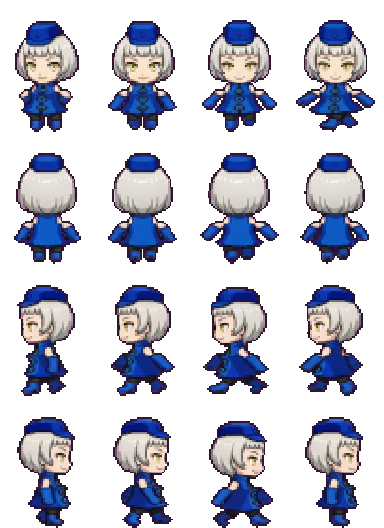
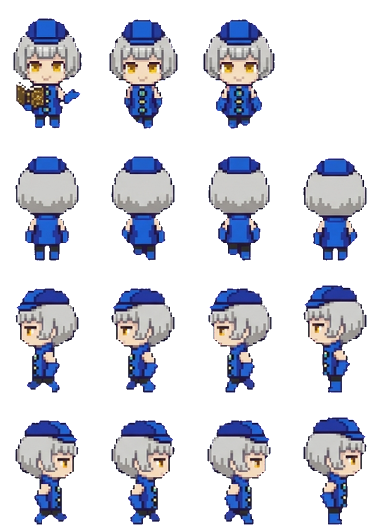
Redraw Elizabeth in the shared art style
Claude-Session: https://claude.ai/code/session_01KaPsBYLrtbRfMYNG2xeBCK

diff --git a/docs/app.js b/docs/app.js
@@ -75,7 +75,7 @@ function spr(cat, k, col, sc) {
   return `<div class="clip" style="width:${it[2] * sc}px;height:${it[3] * sc}px;POS"><img class="px" src="assets/decor/${cat}.png" alt="" style="width:${S.sw * sc}px;height:${S.sh * sc}px;margin-left:${-col * S.cw * sc}px;margin-top:${-i * S.ch * sc}px"></div>`;
 }
 const icon = (k, sz) => `<span class="itm" style="width:${sz}px;height:${sz}px"><img class="px" src="assets/ui/items.png" alt="" style="width:${IT.length * sz}px;height:${sz}px;margin-left:${-ITM[k].i * sz}px"></span>`;
-const face = (id, w) => { const s = w / 96; return `<img class="px" src="assets/ch/${id}.webp?v=67" alt="" style="position:absolute;width:${384 * s}px;height:${528 * s}px;left:${-(96 * s - w) / 2}px;top:0;max-width:none">`; };
+const face = (id, w) => { const s = w / 96; return `<img class="px" src="assets/ch/${id}.webp?v=68" alt="" style="position:absolute;width:${384 * s}px;height:${528 * s}px;left:${-(96 * s - w) / 2}px;top:0;max-width:none">`; };
 
 // ---------- 저장 ----------
 let fb = null, user = null, S = null, saveT = null;
@@ -143,7 +143,7 @@ function sleepHTML(id, r, dy) {
   const pos = r.a && r.a[0] === 'bed' ? 'left:3%;bottom:20%' : r.b && r.b[0] === 'bed' ? 'right:3%;bottom:20%' : 'left:calc(50% - 44px);bottom:6%';
   const s = 36 / 96;
   return `<div style="position:absolute;width:88px;height:56px;${pos};z-index:${dy ? 4 : 5};${dy ? `transform:translate(12px,${dy}px)` : ''}"><div style="position:absolute;inset:0;filter:brightness(.22)">
-    <div style="position:absolute;left:11px;top:1px;width:36px;height:50px;overflow:hidden;transform:rotate(-90deg)"><img class="px" src="assets/ch/${id}.webp?v=67" alt="" style="width:${384 * s}px;height:${528 * s}px;max-width:none;margin-top:${-132 * s}px"></div>
+    <div style="position:absolute;left:11px;top:1px;width:36px;height:50px;overflow:hidden;transform:rotate(-90deg)"><img class="px" src="assets/ch/${id}.webp?v=68" alt="" style="width:${384 * s}px;height:${528 * s}px;max-width:none;margin-top:${-132 * s}px"></div>
     <div style="position:absolute;left:19px;top:19px;width:67px;height:29px;border:2px solid var(--ink);border-radius:8px 6px 4px 4px;background:#8ccff5;background-image:repeating-linear-gradient(90deg,transparent 0 10px,rgba(255,255,255,.5) 10px 13px)"></div></div>
     ${dy ? '' : '<span class="emo" style="left:8px;top:-22px;color:#5b6bd6">Z z z</span>'}</div>`;
 }
@@ -153,8 +153,8 @@ function roomHTML(id, o, scale) {
     <div class="floor" style="background-color:${PAL[r.fc][1]};background-image:${tileUrl('floor', r.fl)}"></div>
     ${slot('deco', r.dc, 'left:6%;top:6%')}${slot('furn', r.a, 'left:3%;bottom:20%')}${slot('furn', r.b, 'right:3%;bottom:20%')}${slot('prop', r.pr, 'left:28%;bottom:4%;z-index:2')}
     ${id && o.sleeping && g ? sleepHTML(g, r, -16) : ''}${id && o.sleeping ? sleepHTML(id, r) : ''}${id && o.job ? `<div style="position:absolute;left:50%;top:38%;transform:translateX(-50%);z-index:5;background:#fff;border:3px solid var(--ink);border-radius:10px;padding:6px 10px;font-size:11px;text-align:center;line-height:1.5"><img src="assets/ui/ic_job.png" alt="" style="width:18px;vertical-align:-4px"> ${WORK[id] ? WORK[id][1] : esc(JOB_NAME[id]) + ' 알바 중'}${g ? `<br><small>${esc(nameOf(g))}도 같이</small>` : ''}<br><b id="jobleft">${timeLeft(o.job.until)}</b></div>` : ''}
-    ${id ? `<div class="shadow" id="shd" ${o.sleeping || o.job ? 'style="display:none"' : ''}></div><div class="man" id="man" ${o.sleeping || o.job ? 'style="display:none"' : ''}><img class="px" src="assets/ch/${id}.webp?v=67" alt="${esc(nameOf(id))}"></div><span class="emo" id="emo" hidden></span><span class="mumble" id="mum" hidden></span>` : ''}
-    ${g ? `<div class="shadow" id="gshd" ${hideG}></div><div class="man" id="gman" ${hideG}><img class="px" src="assets/ch/${g}.webp?v=67" alt="${esc(nameOf(g))}"></div><span class="emo" id="gemo" hidden></span><span class="mumble gmum" id="gmum" hidden></span>` : ''}
+    ${id ? `<div class="shadow" id="shd" ${o.sleeping || o.job ? 'style="display:none"' : ''}></div><div class="man" id="man" ${o.sleeping || o.job ? 'style="display:none"' : ''}><img class="px" src="assets/ch/${id}.webp?v=68" alt="${esc(nameOf(id))}"></div><span class="emo" id="emo" hidden></span><span class="mumble" id="mum" hidden></span>` : ''}
+    ${g ? `<div class="shadow" id="gshd" ${hideG}></div><div class="man" id="gman" ${hideG}><img class="px" src="assets/ch/${g}.webp?v=68" alt="${esc(nameOf(g))}"></div><span class="emo" id="gemo" hidden></span><span class="mumble gmum" id="gmum" hidden></span>` : ''}
     ${o.sleeping ? `<div class="night"></div><div class="sleepleft">쿨쿨 · 일어나기까지 <b id="sleepleft">${timeLeft(wakeAt(o)).replace(' 남음', '')}</b></div>` : ''}
   </div>`;
 }
@@ -167,7 +167,7 @@ function meterHTML(o) {
 const ic = (act, img, label, pressed) => `<button class="ic" data-act="${act}" ${pressed ? 'aria-pressed="true"' : ''}><img src="assets/ui/ic_${img}.png?v=2" alt="">${label}</button>`;
 
 let dropStyle = null; const cheat = {};
-const APP_V = 140, COUPONS = { NINOGUYA: 3000 };
+const APP_V = 141, COUPONS = { NINOGUYA: 3000 };
 // 쿠폰 입력 정리: 한글 자판 상태로 친 글자(ㅜㅑㅜㅐ혀ㅛㅁ)도 영어 자판 글자로 바꾸고, 대소문자·띄어쓰기·마침표는 무시해요
 const KEY = { ㄱ: 'r', ㄲ: 'R', ㄴ: 's', ㄷ: 'e', ㄸ: 'E', ㄹ: 'f', ㅁ: 'a', ㅂ: 'q', ㅃ: 'Q', ㅅ: 't', ㅆ: 'T', ㅇ: 'd', ㅈ: 'w', ㅉ: 'W', ㅊ: 'c', ㅋ: 'z', ㅌ: 'x', ㅍ: 'v', ㅎ: 'g',
   ㅏ: 'k', ㅐ: 'o', ㅑ: 'i', ㅒ: 'O', ㅓ: 'j', ㅔ: 'p', ㅕ: 'u', ㅖ: 'P', ㅗ: 'h', ㅘ: 'hk', ㅙ: 'ho', ㅚ: 'hl', ㅛ: 'y', ㅜ: 'n', ㅝ: 'nj', ㅞ: 'np', ㅟ: 'nl', ㅠ: 'b', ㅡ: 'm', ㅢ: 'ml', ㅣ: 'l',
@@ -407,7 +407,7 @@ function startTrip(k) {
   if (tg) lines[1] = `${nameOf(tg)}: ${withHim(sub(pick(GLX(tg).trip), o, c.n), tg)}`;
   const n = (FR[id] || [4, 4, 4, 4])[3], el = document.createElement('div'); el.className = 'tripview';
   el.innerHTML = `<div class="tsay"> </div><div class="tstage" style="background-image:url(assets/travel/${k}.png?v=2)"><div class="tplace">${esc(c.n)}</div>
-    <div class="twalker"><img class="px" src="assets/ch/${id}.webp?v=67" alt=""></div>${tg ? `<div class="twalker tgirl"><img class="px" src="assets/ch/${tg}.webp?v=67" alt=""></div>` : ''}<span class="emo tjoy">♪</span></div>
+    <div class="twalker"><img class="px" src="assets/ch/${id}.webp?v=68" alt=""></div>${tg ? `<div class="twalker tgirl"><img class="px" src="assets/ch/${tg}.webp?v=68" alt=""></div>` : ''}<span class="emo tjoy">♪</span></div>
     <div class="tbar"><i></i></div><button class="btn white tskip" data-tskip="1">바로 돌아오기</button>`;
   document.body.appendChild(el);
   const gimg = el.querySelector('.tgirl img'), gn = tg ? (FR[tg] || [4, 4, 4, 4])[3] : 1;
@@ -665,7 +665,7 @@ setInterval(() => { if (S && user) { tickTime(); save(); } }, 60000);
     if (nv > APP_V && !location.search.includes('u=' + nv)) { location.replace(location.pathname + '?u=' + nv); return; }
   } catch { }
   app.innerHTML = '<div class="start"><div class="egg"><div class="scr"></div></div><div class="note">불러오는 중....</div></div>';
-  const [c, t, f, it, mu, ct, tv, gl, sts] = await Promise.all(['data/chars.json', 'data/talk.json', 'data/frames.json', 'data/items.json', 'data/mumble.json', 'data/countries.json', 'data/travel.json', 'data/girls.json', 'data/sets.json'].map(u => fetch(u + '?v=140').then(r => r.ok ? r.json() : {})));
+  const [c, t, f, it, mu, ct, tv, gl, sts] = await Promise.all(['data/chars.json', 'data/talk.json', 'data/frames.json', 'data/items.json', 'data/mumble.json', 'data/countries.json', 'data/travel.json', 'data/girls.json', 'data/sets.json'].map(u => fetch(u + '?v=141').then(r => r.ok ? r.json() : {})));
   CH = c; CHM = Object.fromEntries(c.map(x => [x.id, x])); TALK = t; FR = f; IT = it; ITM = Object.fromEntries(it.map(x => [x.k, x])); MUM = mu; CTRY = ct; TRV = tv; GL = Array.isArray(gl) ? gl : []; SETS = Array.isArray(sts) ? sts : []; GLM = Object.fromEntries(GL.map(x => [x.id, x]));
   try { await initFirebase(); } catch (e) { console.warn('Firebase 연결 실패, 기기 저장으로', e); fb = null; }
   if (fb) {

diff --git a/docs/index.html b/docs/index.html
@@ -18,6 +18,6 @@
 <main id="app" aria-live="polite"></main>
 <div id="toast" role="status" hidden></div>
 <script src="firebase-config.js?v=3"></script>
-<script type="module" src="app.js?v=140"></script>
+<script type="module" src="app.js?v=141"></script>
 </body>
 </html>
